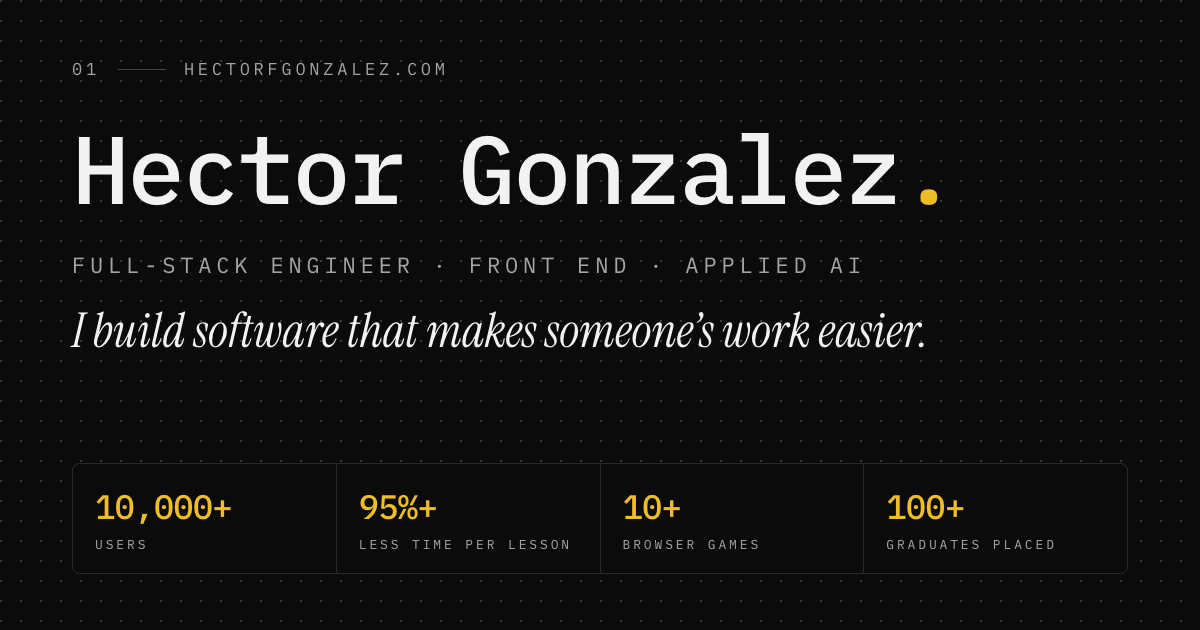
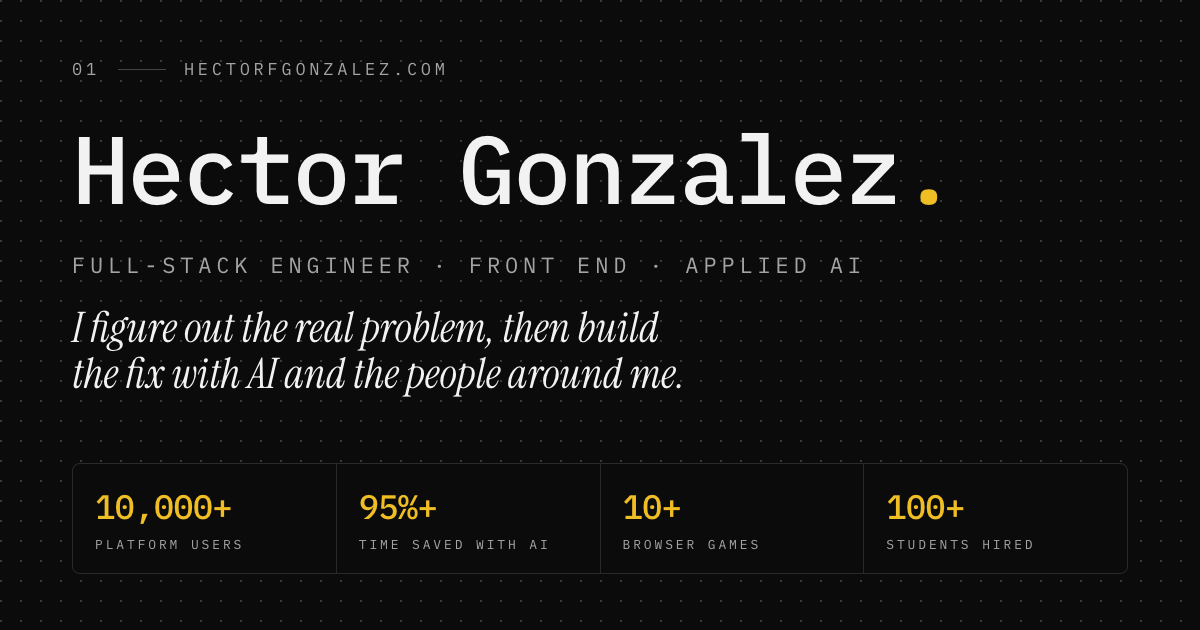
feat(portfolio): new hero line, numbers that say why, even spacing
- Hero line: "I figure out the real problem, then build the fix with AI and
  the people around me." On large screens it sits halfway between the
  title and the buttons. The meta descriptions, the share card and the
  contact heading ("Got a problem that needs figuring out?") follow it.
- Proof: each number's label and line say why it matters (platform
  users, time saved with AI, browser games, students hired). The strip
  is one column on phones and two on tablets, with readable small print.
- Path: a heading ("I didn't start in tech."), a closing rule under the
  table, and "The long version" left-aligned under it.
- Spacing: every section after the hero has the same padding, rule,
  eyebrow, heading and gap. How I work's cards share a subgrid, so
  titles and bodies line up when one title wraps.
- Section headings balance their lines. The hero title wraps without
  ending a line on a dot. Buttons stack at full width on phones, and the
  nav keeps the name on one line at 375px with no overflow at 320px.
- Docs: the copy rule on numbers, the section rhythm and the hero in
  design.md.

diff --git a/apps/hector-portfolio/app/_components/portfolio/path/path-section.tsx b/apps/hector-portfolio/app/_components/portfolio/path/path-section.tsx
@@ -34,49 +34,55 @@ const PATH_STEPS: PathStep[] = [
   },
 ];
 
+const ROW =
+  "grid gap-1 border-t border-border py-4 sm:grid-cols-[8rem_1fr] sm:gap-6";
+const ROW_LABEL =
+  "font-mono text-[11px] uppercase tracking-[0.22em] text-muted-foreground sm:pt-1";
+
 export function PathSection() {
   return (
     <m.section
-      className="relative px-4 py-12 sm:py-16"
+      className="relative px-4 py-16 sm:py-20"
       initial="hidden"
       whileInView="visible"
       viewport={viewportOptions}
       variants={fadeInUp}
     >
       <div className="mx-auto max-w-6xl">
+        <div className="border-t mb-10" />
+
         <SectionEyebrow index="02" label="The path" />
 
-        <m.ol className="mt-6 max-w-3xl" variants={staggerContainer}>
-          {PATH_STEPS.map((step) => (
-            <m.li
-              key={step.year}
-              className="grid gap-1 border-t border-border py-4 sm:grid-cols-[8rem_1fr] sm:gap-6"
-              variants={staggerItem}
-            >
-              <span className="font-mono text-[11px] uppercase tracking-[0.22em] text-muted-foreground sm:pt-1">
-                {step.year}
-              </span>
-              <p className="text-base leading-relaxed text-foreground">
-                {step.text}
-              </p>
-            </m.li>
-          ))}
-        </m.ol>
-
-        <m.div
-          className="grid max-w-3xl gap-1 border-t border-border py-4 sm:grid-cols-[8rem_1fr] sm:gap-6"
+        <m.h2
+          className="font-mono mt-5 text-3xl font-medium text-balance leading-tight tracking-tight text-foreground sm:text-4xl"
           variants={fadeInUp}
         >
-          <span className="font-mono text-[11px] uppercase tracking-[0.22em] text-muted-foreground sm:pt-1">
-            Off the clock
-          </span>
-          <div>
+          I didn&apos;t start in tech.
+        </m.h2>
+
+        <div className="mt-10 max-w-3xl">
+          <m.ol variants={staggerContainer}>
+            {PATH_STEPS.map((step) => (
+              <m.li key={step.year} className={ROW} variants={staggerItem}>
+                <span className={ROW_LABEL}>{step.year}</span>
+                <p className="text-base leading-relaxed text-foreground">
+                  {step.text}
+                </p>
+              </m.li>
+            ))}
+          </m.ol>
+
+          <m.div className={`${ROW} border-b`} variants={fadeInUp}>
+            <span className={ROW_LABEL}>Off the clock</span>
             <p className="text-base leading-relaxed text-muted-foreground">
               3D printing and home projects. I also have a music degree.
             </p>
+          </m.div>
+
+          <m.div className="mt-6" variants={fadeInUp}>
             <Link
               href="/about"
-              className="group mt-4 inline-flex items-center gap-2 font-mono text-[11px] uppercase tracking-[0.22em] text-muted-foreground transition-colors hover:text-accent"
+              className="group inline-flex items-center gap-2 font-mono text-[11px] uppercase tracking-[0.22em] text-muted-foreground transition-colors hover:text-accent"
             >
               The long version
               <span
@@ -86,8 +92,8 @@ export function PathSection() {
                 →
               </span>
             </Link>
-          </div>
-        </m.div>
+          </m.div>
+        </div>
       </div>
     </m.section>
   );

diff --git a/apps/hector-portfolio/app/_components/portfolio/hero/hero-section.tsx b/apps/hector-portfolio/app/_components/portfolio/hero/hero-section.tsx
@@ -17,7 +17,7 @@ export function HeroSection({ profile }: HeroSectionProps) {
   return (
     <m.section
       id="top"
-      className="relative overflow-hidden px-4 pb-10 pt-8 sm:pt-12"
+      className="relative overflow-hidden px-4 pb-16 pt-8 sm:pb-20 sm:pt-12"
       // Rendered visible from the first paint: the name and photo are the page's
       // largest content, and fading them in from opacity 0 delayed LCP until hydration.
       initial={false}
@@ -40,26 +40,37 @@ export function HeroSection({ profile }: HeroSectionProps) {
               Gonzalez<span className="text-accent">.</span>
             </m.h1>
 
+            {/* Every part carries a leading "·", and the clipped negative margin hides the
+                one that starts each line, so a wrapped title never ends a line on a dot */}
             <m.p
-              className="font-mono text-xs uppercase tracking-[0.22em] text-muted-foreground sm:text-sm"
+              className="overflow-hidden font-mono text-xs uppercase tracking-[0.22em] text-muted-foreground sm:text-sm"
               variants={heroItem}
             >
-              {profile.title}
+              <span className="-ml-[1.6em] flex flex-wrap">
+                {profile.title.split(" · ").map((part) => (
+                  <span
+                    key={part}
+                    className="whitespace-nowrap before:inline-block before:w-[1.6em] before:text-center before:content-['·']"
+                  >
+                    {part}
+                  </span>
+                ))}
+              </span>
             </m.p>
 
             {profile.tagline && (
               <m.p
-                className="font-serif max-w-2xl pt-3 text-xl leading-snug text-balance text-foreground sm:text-2xl lg:text-3xl"
+                className="font-serif max-w-2xl pt-3 text-xl leading-snug text-balance text-foreground sm:text-2xl lg:my-auto lg:pt-0 lg:text-3xl"
                 variants={heroItem}
               >
                 <span className="italic">{profile.tagline}</span>
               </m.p>
             )}
 
-            {/* On large screens the column is as tall as the photo, and mt-auto lines the
-                buttons up with its bottom edge */}
+            {/* On large screens the column is as tall as the photo: the line's auto margins
+                center it between the title and the buttons, which end at the photo's bottom edge */}
             <m.div
-              className="flex flex-wrap items-center gap-3 pt-2 lg:mt-auto"
+              className="flex flex-col gap-3 pt-2 sm:flex-row sm:flex-wrap sm:items-center lg:pt-0"
               variants={heroItem}
             >
               <Button

diff --git a/apps/hector-portfolio/app/_components/portfolio/proof/proof-strip.tsx b/apps/hector-portfolio/app/_components/portfolio/proof/proof-strip.tsx
@@ -18,30 +18,30 @@ interface ProofItem {
 const PROOF_ITEMS: ProofItem[] = [
   {
     value: "10,000+",
-    label: "Users",
-    hint: "Students and teachers on The Notwork",
+    label: "Platform users",
+    hint: "Students and teachers on a platform I co-architected and keep running.",
   },
   {
     value: "95%+",
-    label: "Less time per lesson",
-    hint: "About a week down to half an hour, with an AI pipeline I built",
+    label: "Time saved with AI",
+    hint: "A week of lesson writing now takes half an hour or less, with a pipeline I built.",
   },
   {
     value: "10+",
     label: "Browser games",
-    hint: "Built on my own in Pixi.js and Three.js",
+    hint: "2D and 3D games I designed and built in Pixi.js and Three.js.",
   },
   {
     value: "100+",
-    label: "Graduates placed",
-    hint: "Of about 130 adults I taught to code",
+    label: "Students hired",
+    hint: "Of about 130 adults I taught to code, hired at places like Bank of America and Lowe's.",
   },
 ];
 
 export function ProofStrip() {
   return (
     <m.section
-      className="relative px-4 py-12 sm:py-16"
+      className="relative px-4 py-16 sm:py-20"
       initial="hidden"
       whileInView="visible"
       viewport={viewportOptions}
@@ -52,12 +52,12 @@ export function ProofStrip() {
 
         <SectionEyebrow index="03" label="Proof" />
 
-        <h2 className="font-mono mt-5 text-3xl font-medium leading-tight tracking-tight text-foreground sm:text-4xl">
+        <h2 className="font-mono mt-5 text-3xl font-medium text-balance leading-tight tracking-tight text-foreground sm:text-4xl">
           What it&apos;s added up to so far.
         </h2>
 
         <m.dl
-          className="mt-10 grid grid-cols-2 gap-px overflow-hidden rounded-lg border border-border bg-border sm:grid-cols-4"
+          className="mt-10 grid grid-cols-1 gap-px overflow-hidden rounded-lg border border-border bg-border sm:grid-cols-2 lg:grid-cols-4"
           variants={staggerContainer}
         >
           {PROOF_ITEMS.map((item, index) => (
@@ -74,7 +74,7 @@ export function ProofStrip() {
               <dd className="font-mono text-[min(2.25rem,23cqi)] font-medium leading-[1.1] tracking-tight text-foreground">
                 {item.value}
               </dd>
-              <dd className="text-xs leading-relaxed text-muted-foreground">
+              <dd className="text-sm leading-relaxed text-muted-foreground">
                 {item.hint}
               </dd>
             </m.div>

diff --git a/apps/hector-portfolio/docs/og-image.html b/apps/hector-portfolio/docs/og-image.html
@@ -90,11 +90,13 @@ p {
 }
 
 .tagline {
+  max-width: 980px;
   margin-top: 26px;
   font-family: "Instrument Serif", Georgia, serif;
-  font-size: 48px;
+  font-size: 42px;
   font-style: italic;
   line-height: 1.1;
+  text-wrap: balance;
 }
 
 /* The proof strip: hairlines from a 1px gap on the border colour */
@@ -133,12 +135,12 @@ p {
   <div class="eyebrow label"><span>01</span><span class="rule"></span><span>hectorfgonzalez.com</span></div>
   <p class="name">Hector Gonzalez<span class="dot">.</span></p>
   <p class="title label">Full-Stack Engineer · Front End · Applied AI</p>
-  <p class="tagline">I build software that makes someone&rsquo;s work easier.</p>
+  <p class="tagline">I figure out the real problem, then build the fix with AI and the people around me.</p>
   <div class="proof">
-    <div><p class="value">10,000+</p><p class="label">Users</p></div>
-    <div><p class="value">95%+</p><p class="label">Less time per lesson</p></div>
+    <div><p class="value">10,000+</p><p class="label">Platform users</p></div>
+    <div><p class="value">95%+</p><p class="label">Time saved with AI</p></div>
     <div><p class="value">10+</p><p class="label">Browser games</p></div>
-    <div><p class="value">100+</p><p class="label">Graduates placed</p></div>
+    <div><p class="value">100+</p><p class="label">Students hired</p></div>
   </div>
 </body>
 </html>

diff --git a/apps/hector-portfolio/app/_components/portfolio/contact/contact-cta.tsx b/apps/hector-portfolio/app/_components/portfolio/contact/contact-cta.tsx
@@ -15,7 +15,7 @@ interface ContactCTAProps {
 export function ContactCTA({ profile }: ContactCTAProps) {
   return (
     <m.section
-      className="relative px-4 py-20 sm:py-24"
+      className="relative px-4 py-16 sm:py-20"
       initial="hidden"
       whileInView="visible"
       viewport={viewportOptions}
@@ -27,10 +27,10 @@ export function ContactCTA({ profile }: ContactCTAProps) {
         <SectionEyebrow index="06" label="Get in touch" />
 
         <m.h2
-          className="font-mono mt-5 max-w-3xl text-3xl font-medium leading-tight tracking-tight text-foreground sm:text-4xl"
+          className="font-mono mt-5 max-w-3xl text-3xl font-medium text-balance leading-tight tracking-tight text-foreground sm:text-4xl"
           variants={heroItem}
         >
-          Got work that should be easier?
+          Got a problem that needs figuring out?
         </m.h2>
 
         <m.p
@@ -40,7 +40,10 @@ export function ContactCTA({ profile }: ContactCTAProps) {
           I&apos;m in Charlotte. Email is the fastest way to reach me.
         </m.p>
 
-        <m.div className="mt-8 flex flex-wrap gap-3" variants={heroItem}>
+        <m.div
+          className="mt-8 flex flex-col gap-3 sm:flex-row sm:flex-wrap"
+          variants={heroItem}
+        >
           <Button
             size="label"
             nativeButton={false}

diff --git a/apps/hector-portfolio/app/_components/portfolio/nav/navbar.tsx b/apps/hector-portfolio/app/_components/portfolio/nav/navbar.tsx
@@ -29,7 +29,7 @@ export function Navbar() {
     >
       <div className="mx-auto max-w-6xl px-4">
         <m.div
-          className="flex h-16 items-center justify-between gap-4"
+          className="flex h-16 items-center justify-between gap-2 sm:gap-4"
           variants={staggerContainerFast}
         >
           <m.div variants={staggerItem}>
@@ -57,7 +57,7 @@ export function Navbar() {
                   <Link
                     href={item.href}
                     className={cn(
-                      "group inline-flex items-center gap-1 rounded-md px-2 py-1 font-mono text-[11px] uppercase tracking-[0.18em] transition-colors sm:px-3 sm:text-xs",
+                      "group inline-flex items-center gap-1 rounded-md px-1.5 py-1 font-mono text-[11px] uppercase tracking-[0.1em] transition-colors sm:px-3 sm:text-xs sm:tracking-[0.18em]",
                       isActive
                         ? "text-foreground"
                         : "text-muted-foreground hover:text-foreground",

diff --git a/apps/hector-portfolio/app/_components/portfolio/approach/approach-section.tsx b/apps/hector-portfolio/app/_components/portfolio/approach/approach-section.tsx
@@ -48,7 +48,7 @@ export function ApproachSection() {
         <SectionEyebrow index="05" label="How I work" />
 
         <m.h2
-          className="font-mono mt-5 max-w-2xl text-3xl font-medium leading-tight tracking-tight text-foreground sm:text-4xl"
+          className="font-mono mt-5 max-w-2xl text-3xl font-medium text-balance leading-tight tracking-tight text-foreground sm:text-4xl"
           variants={fadeInUp}
         >
           What working with me looks like.
@@ -61,7 +61,7 @@ export function ApproachSection() {
           {APPROACH_ITEMS.map((item) => (
             <m.li
               key={item.step}
-              className="group relative flex flex-col gap-3 bg-background p-6 transition-colors hover:bg-muted"
+              className="group relative row-span-3 grid grid-rows-subgrid gap-3 bg-background p-6 transition-colors hover:bg-muted"
               variants={staggerItem}
             >
               <span className="font-mono text-2xl font-medium text-accent sm:text-3xl">

diff --git a/apps/hector-portfolio/app/page.tsx b/apps/hector-portfolio/app/page.tsx
@@ -11,7 +11,7 @@ import { generateSEOMetadata } from "@/src/shared/utils/seo";
 export const metadata: Metadata = generateSEOMetadata({
   title: "Hector Gonzalez | Full-Stack Engineer, Front End and Applied AI",
   description:
-    "I build software that makes someone's work easier. Six years building for the web, from a bank's public site to a learning platform for North Carolina high schoolers.",
+    "I figure out the real problem, then build the fix with AI and the people around me. Six years building for the web, from a bank's public site to a learning platform for North Carolina high schoolers.",
   keywords: [
     "Hector Gonzalez",
     "Full-Stack Engineer",

diff --git a/apps/hector-portfolio/app/layout.tsx b/apps/hector-portfolio/app/layout.tsx
@@ -46,7 +46,7 @@ const caveat = Caveat({
 export const metadata: Metadata = {
   title: "Hector Gonzalez | Full-Stack Engineer, Front End and Applied AI",
   description:
-    "I build software that makes someone's work easier. Six years building for the web, from a bank's public site to a learning platform for North Carolina high schoolers.",
+    "I figure out the real problem, then build the fix with AI and the people around me. Six years building for the web, from a bank's public site to a learning platform for North Carolina high schoolers.",
 };
 
 // Every page is prerendered: anything that would render per request fails the build.

diff --git a/apps/hector-portfolio/app/_components/portfolio/projects/projects-section.tsx b/apps/hector-portfolio/app/_components/portfolio/projects/projects-section.tsx
@@ -36,7 +36,7 @@ export function ProjectsSection({
 
         <div className="mt-5 flex flex-wrap items-end justify-between gap-6">
           <m.h2
-            className="font-mono max-w-3xl text-3xl font-medium leading-tight tracking-tight text-foreground sm:text-4xl"
+            className="font-mono max-w-3xl text-3xl font-medium text-balance leading-tight tracking-tight text-foreground sm:text-4xl"
             variants={fadeInUp}
           >
             The work behind those numbers.

diff --git a/apps/hector-portfolio/docs/spec.md b/apps/hector-portfolio/docs/spec.md
@@ -133,7 +133,8 @@ From Hector's review of the site's copy (2026-10). They cover every page, the me
 	•	Short and plain. Write the way Hector talks. The hero is one line.
 	•	Show, don't name. Specific facts carry the copy: what was built, for whom, and what changed. Never name a trait (“passionate,” “authentic,” “caring,” “product-minded”) or hint at one with adjectives.
 	•	No clichés or slogans: no “ships,” “passionate,” “excited” or “synergy,” and no setup-and-reversal lines like “Ambiguity in. Useful systems out.”
-	•	Sell the outcome, not the exact figure. Sentences round to words (“tens of thousands of people,” not “~24K”), and the proof strip rounds down to a number with a plus (“10,000+ users,” “95%+ less time per lesson,” “10+ browser games,” “100+ graduates placed,” not “30 min”).
+	•	Sell the outcome, not the exact figure. Sentences round to words (“tens of thousands of people,” not “~24K”), and the proof strip rounds down to a number with a plus (“10,000+ platform users,” “95%+ time saved with AI,” “10+ browser games,” “100+ students hired,” not “30 min”).
+	•	Every number says why it matters, not just what it counts. Its label names the takeaway and its line gives the plain facts behind it (“Students and teachers on a platform I co-architected and keep running”), so a reader who never opens a case study still gets the point.
 	•	The hero's line and the one-sentence summary of the path (profile.json's tagline and bio) are also the home page's meta description (app/page.tsx, with app/layout.tsx as the fallback), and the share card (docs/og-image.html) shows the line and the proof strip. Change them together.
 	•	Hector reviews new copy before it merges.
 

diff --git a/apps/hector-portfolio/docs/design.md b/apps/hector-portfolio/docs/design.md
@@ -54,13 +54,14 @@ If something else needs color, we make it ink, paper, or accent. Anything else d
 
 ## Layout & Atmosphere
 
+- Every home page section after the hero has the same rhythm: `py-16 sm:py-20`, a hairline rule, the eyebrow, a mono `h2`, then the content at `mt-10`.
 - Every section uses `max-w-6xl` outer container. The hairline rule and section eyebrow always sit at this consistent edge — that's how the site reads as a continuous dossier.
 - Inner narrative content (paragraphs, dl lists, single-column timelines) constrains to `max-w-3xl` or `max-w-4xl` for comfortable reading. The visual edge stays wide; the reading width stays narrow.
 - Section eyebrows: a large faded mono numeral (`01`, `02`...) followed by a small mono label, set off by a hairline tick. Sequential numbering across the homepage tells the reader it's a structured document.
 - Page-level dot grid + paper grain set the constant background atmosphere. Individual sections don't need to add extra dots — the page is already the journal.
 - Hairline rules separate major sections (`border-t mb-8` / `border-t mb-10`, which draw in the `border` colour; a strong rule is `border-foreground/25`). No card shadows. No drop-shadows.
 - Cards: hairline border + accent border on hover. Status chips show a small colored category dot.
-- Asymmetric hero: name + title + tagline + CTAs on the left, with the CTAs lined up with the photo's bottom edge on large screens; big portrait photo with a mono caption strip on the right.
+- Asymmetric hero: name + title + tagline + CTAs on the left; on large screens the CTAs line up with the photo's bottom edge and the tagline sits halfway between the title and the CTAs; big portrait photo with a mono caption strip on the right.
 
 ## Component Hints
 
